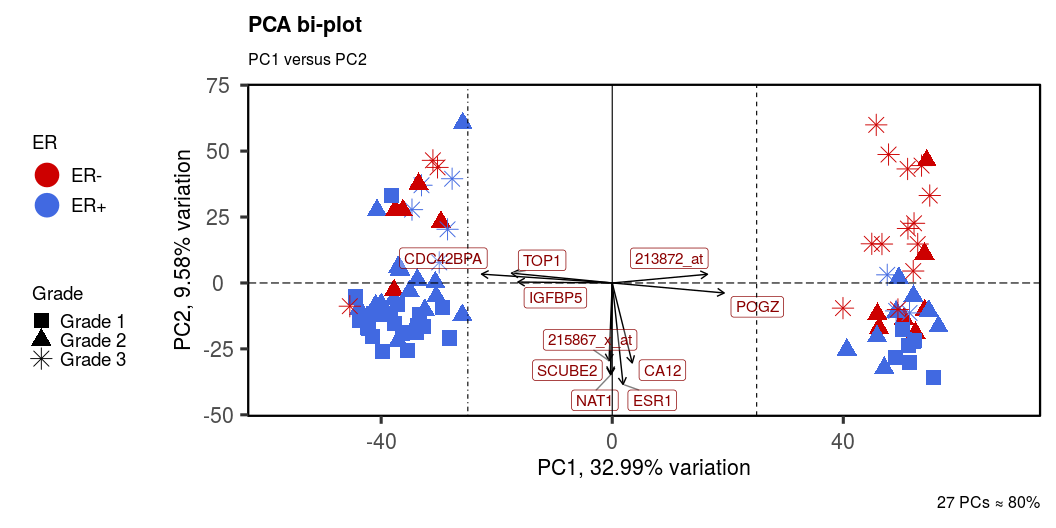
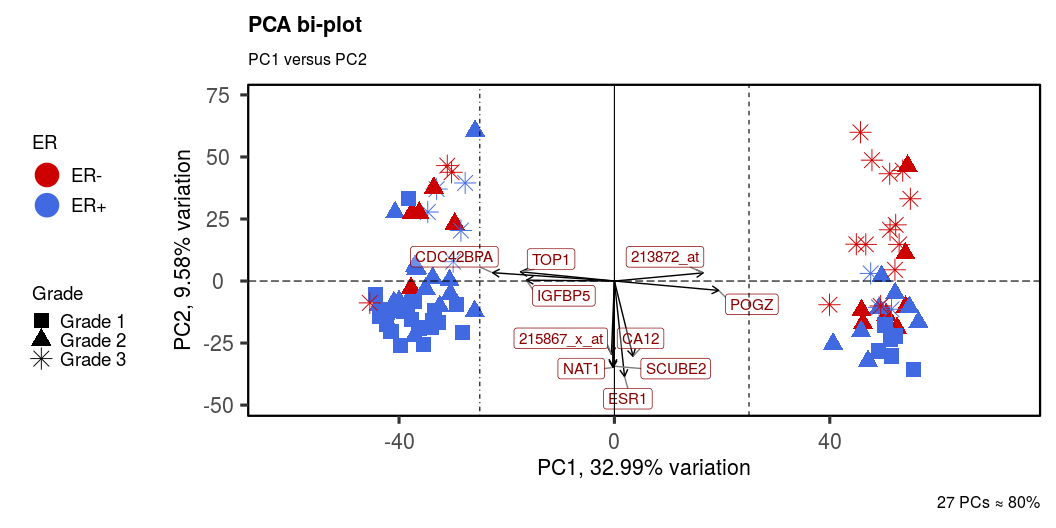
update min.segment.length

diff --git a/README.md b/README.md
@@ -1,7 +1,7 @@
 PCAtools: everything Principal Component Analysis
 ================
 Kevin Blighe, Aaron Lun
-2021-07-06
+2021-07-23
 
 # Introduction
 
@@ -1013,7 +1013,7 @@ sessionInfo()
     ## [13] Biobase_2.48.0              GenomicRanges_1.40.0       
     ## [15] GenomeInfoDb_1.24.2         IRanges_2.22.2             
     ## [17] S4Vectors_0.26.1            BiocGenerics_0.34.0        
-    ## [19] PCAtools_2.3.11             ggrepel_0.9.1              
+    ## [19] PCAtools_2.5.5              ggrepel_0.9.1              
     ## [21] ggplot2_3.3.3              
     ## 
     ## loaded via a namespace (and not attached):
